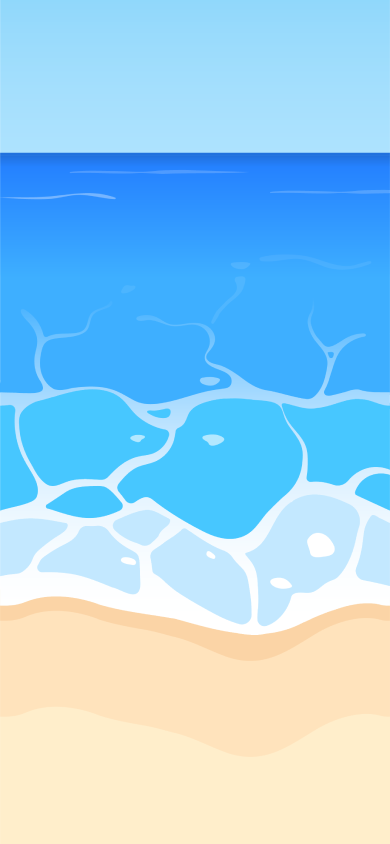
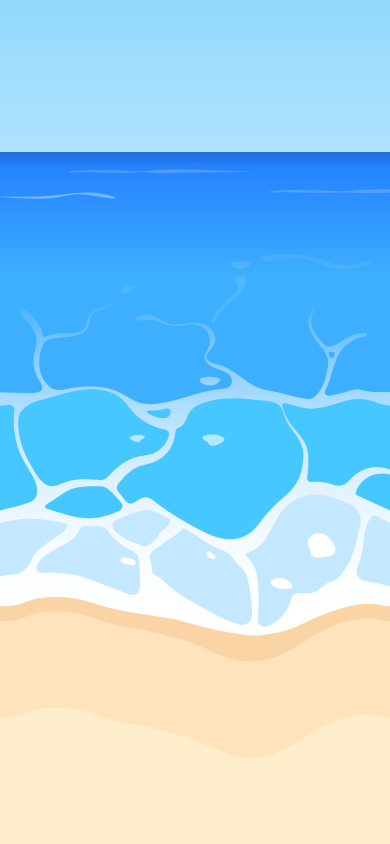
🚑 fix: 배경 이미지 흰색 구분선 제거 (#94)
* 💄 design: background 이미지 변경

* 💄 design: background-size를 390px로 변경

* 💄 design: 사이즈 별 애니메이션 속도 미세 조절

diff --git a/src/components/Background/styles.ts b/src/components/Background/styles.ts
@@ -14,42 +14,52 @@ const style = {
 
     height: 100svh;
     background-image: url(${imageUrl});
-    background-position: center center;
-    background-size: 600px 100%;
+    background-size: 390px 100%;
     background-repeat: repeat-x;
     animation: gradient linear infinite;
-    animation-duration: 20000s;
 
-    @media (max-width: 1200px) {
-      animation-duration: 14400s;
+    @media (min-width: 0) and (max-width: 450px) {
+      background-size: 90vw 100%;
     }
 
-    @media (max-width: 1000px) {
-      animation-duration: 9600s;
+    @media (min-width: 0) {
+      animation-duration: 1000s;
     }
 
-    @media (max-width: 900px) {
-      animation-duration: 8000s;
-    }
-
-    @media (max-width: 800px) {
-      animation-duration: 7200s;
-    }
-
-    @media (max-width: 700px) {
-      animation-duration: 4800s;
-    }
-
-    @media (max-width: 650px) {
-      animation-duration: 3200s;
-    }
-
-    @media (max-width: 600px) {
+    @media (min-width: 450px) {
       animation-duration: 2400s;
     }
 
-    @media (max-width: 400px) {
-      animation-duration: 10000s;
+    @media (min-width: 600px) {
+      animation-duration: 4800s;
+    }
+
+    @media (min-width: 650px) {
+      animation-duration: 6400s;
+    }
+
+    @media (min-width: 700px) {
+      animation-duration: 9600s;
+    }
+
+    @media (min-width: 800px) {
+      animation-duration: 14400s;
+    }
+
+    @media (min-width: 900px) {
+      animation-duration: 16000s;
+    }
+
+    @media (min-width: 1000px) {
+      animation-duration: 19200s;
+    }
+
+    @media (min-width: 1200px) {
+      animation-duration: 28800s;
+    }
+
+    @media (min-width: 1400px) {
+      animation-duration: 40000s;
     }
   `,
 
